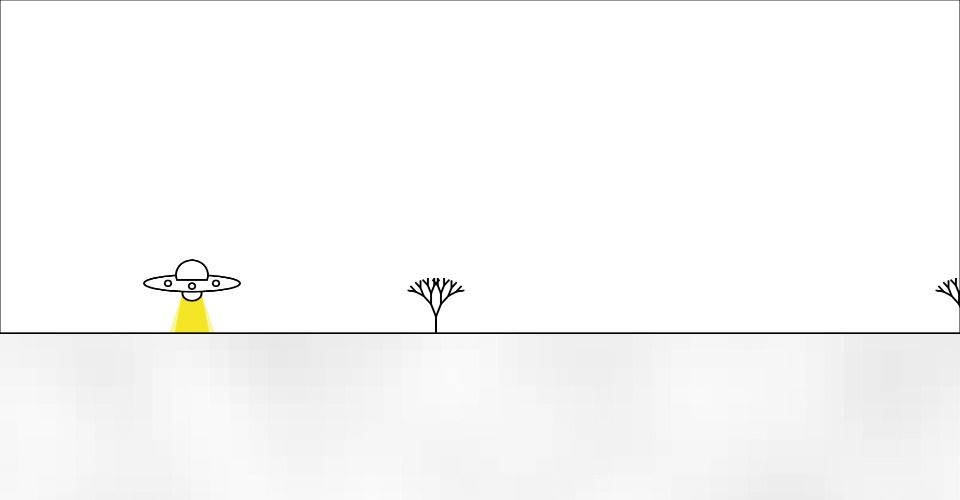
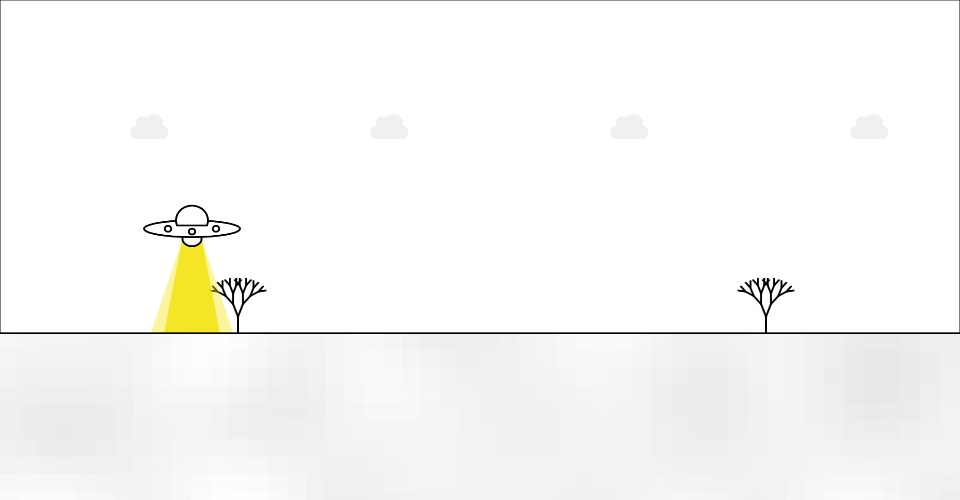
Added clouds

diff --git a/draw_one_frame.js b/draw_one_frame.js
@@ -15,9 +15,25 @@ function draw_one_frame(cur_frac) {
 	drawCharacter();
 	drawGround();
 	pop();
-	
+	drawCloud();
 }
 function drawCloud(){
+	let numOfClouds=4;
+	
+	let cloudY=canvasHeight/4;
+	fill(240);
+	noStroke();
+	
+	for(let i=-1;i<numOfClouds;i++){
+		let cloudX=map(frameNo,0,24,canvasWidth/numOfClouds+i*canvasWidth/numOfClouds,+i*canvasWidth/numOfClouds);
+		push();
+		translate(cloudX,cloudY);
+		ellipse(+width/40,-canvasHeight/200,canvasHeight/30);
+		ellipse(+width/75,-canvasHeight/200,canvasHeight/40);
+		rect(0,0,width/25,canvasHeight/35,20);
+		pop();
+	}
+	
 
 }
 function drawCharacter(){
@@ -78,7 +94,7 @@ function drawGround(cur_frac){
 	
 
 	//code adapted from the in class noise example 
-	let mainColor = color(255,255,255); // white
+	let mainColor = color(255); // white
 	let backupColor = color(230,230,230); // grey
 	let noiseColor;
 	let pixelSize = width/50;//100
@@ -103,7 +119,7 @@ function drawTree(){
 	let trunkHeight=canvasHeight/30;
 	let treeX=map(frameNo,0,24,canvasWidth/2,0-canvasWidth/20);
 	strokeWeight(width/500);
-	stroke(0,0,0);
+	stroke(0);
 	line(treeX,groundY,treeX,groundY-trunkHeight);
 	push();
 	translate(treeX,groundY);

diff --git a/README.md b/README.md
@@ -1,1 +1,1 @@
-I have added a yellow light under the ship which added a spot of colour and allows the trees to be lit up. This adds some colour to the design and helps add a focal poin to the ship.
+I have added these grey clouds that move across the screen at a different rate from the trees. something is missing from the I am not sure whether it is the scale colour or lack of stroke so I will need to have a play. 
